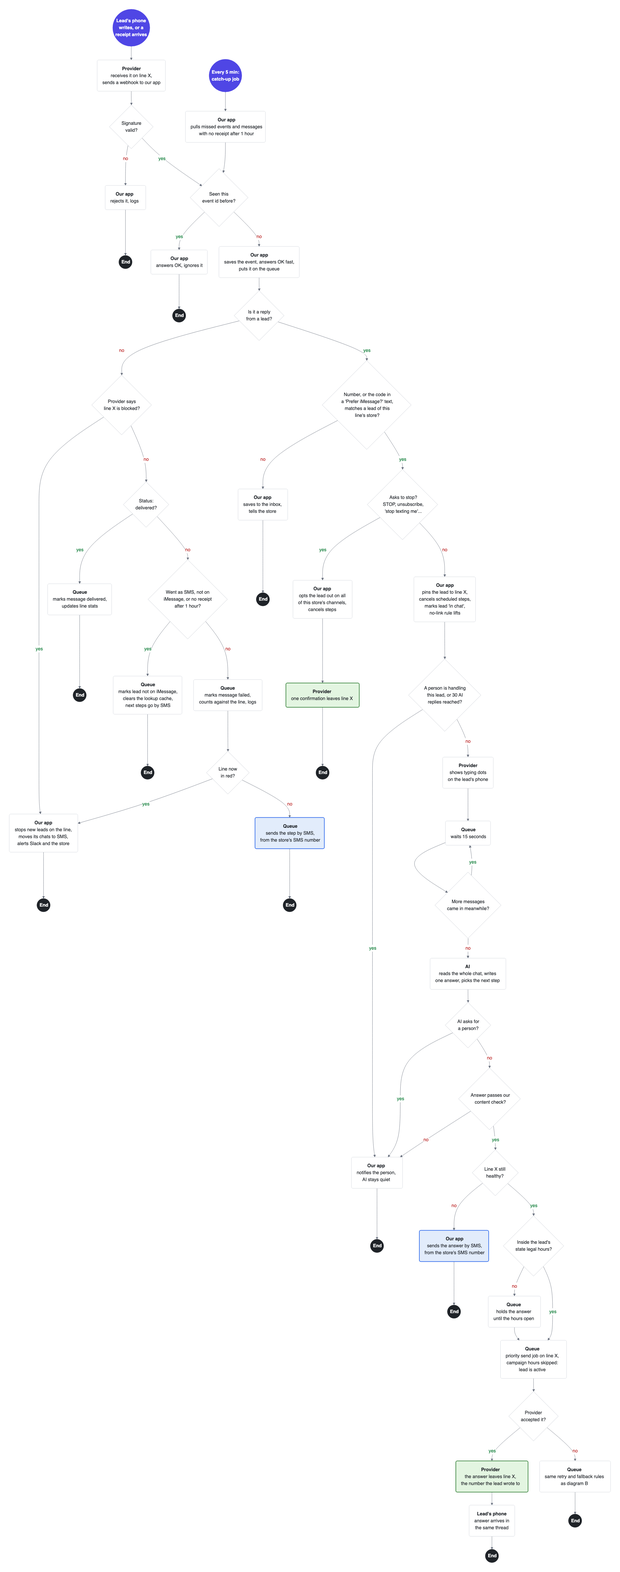
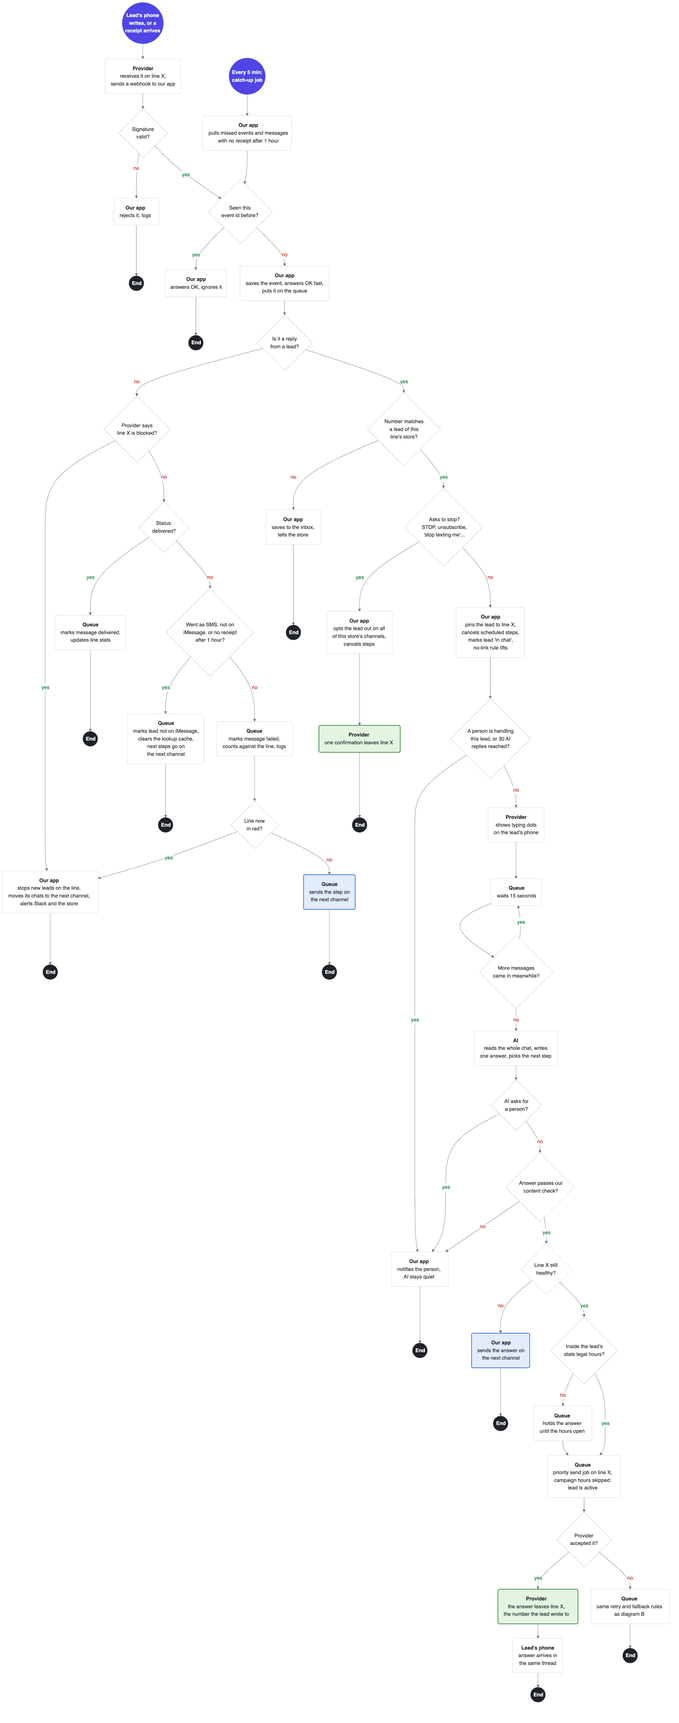
iMessage as a fifth channel: we write first, fall back to the next channel
- One pilot where we send first; "Prefer iMessage?" becomes plan B
- Fallback goes to the campaign's next channel, not always SMS
- The pilot compares with the campaign without iMessage
- One number per lead: an iPhone lead gets every text step from one line

diff --git a/appendix.md b/appendix.md
@@ -16,7 +16,7 @@ Back to the plan: [README.md](README.md) · [Diagrams](diagrams.md)
 | Conflict with us | None found | Sells its own iMessage cart recovery to Shopify brands | None found | None found |
 
 **Pick: Blooio**, from step 0 through the pilot, so the line warmed in step 0 carries into the pilot.
-- **Why:** public prices ($195 a line at 6+, no setup fees), live in days, and hard limits with an error code for each rule, so the provider catches our own mistakes. It falls back to SMS only through our own Twilio, so keeping our SMS path is the default.
+- **Why:** public prices ($195 a line at 6+, no setup fees), live in days, and hard limits with an error code for each rule, so the provider catches our own mistakes. It falls back to SMS only through our own Twilio, so we leave that off and fall back through our own channels.
 - **Conditions:** a data agreement (DPA) before any shopper data flows, and its SOC 2 finished before we grow beyond the pilot (its trust page says "in progress"). Otherwise we move to Linq; our provider interface keeps that to about a week.
 - **Plan B: Linq.** It claims SOC 2 Type II, has a 99.95% uptime contract and automatic failover, but no public price.
 - **Not Sendblue:** the July 2026 breach and its competing cart product. **Not Photon:** its pricing page sells cold outreach while its own guide says not to do it.
@@ -39,22 +39,22 @@ Back to the plan: [README.md](README.md) · [Diagrams](diagrams.md)
 - the SOC 2 report itself, the auditor's name and the breach history.
 
 **Provider details that shape the build.** From Blooio's docs (our pick):
-- Before a written reply, a chat allows 3 plain-text messages, and links and media are blocked (`conversation_content_restricted`). Our no-link rule and "two unanswered → SMS" stay inside that.
+- Before a written reply, a chat allows 3 plain-text messages, and links and media are blocked (`conversation_content_restricted`). Our no-link rule and "two unanswered → next channel" stay inside that.
 - The `one_way` rule: over 10 new chats a day (3-day average) with under 40% written replies slows the line, then pauses new chats. Sizing has to allow for it (section F).
 - Its 429 errors such as `conversation_awaiting_reply` aren't temporary, and retrying won't help. Our retry logic reads the error key, not just the status code.
 - The `safety.state_changed` webhook and the health endpoint (polled every 5 minutes) feed our health job.
 - One banned number slows every number on the account for 72 hours (`sibling_ban`), so each store gets its own sub-account.
-- SMS fallback runs only through our own Twilio account. We leave it off and use our SMS path.
+- SMS fallback runs only through our own Twilio account. We leave it off and fall back to the campaign's next channel.
 
 From Linq's docs (plan B):
 - A `phone_number.status_updated` webhook reports health changes (healthy, at risk, critical), so the health job uses Linq's own signal.
 - When Linq picks the line, the recipients of a flagged line move to a fresh one (`failover_flagged`). A `continuation_message` can explain the new number.
-- A flagged Linq number also stops sending SMS, by Linq's help page. One more reason to fall back through our own SMS path.
+- A flagged Linq number also stops sending SMS, by Linq's help page. One more reason to fall back through our own channels.
 - Rate limits return 429 with `Retry-After`. The iMessage check allows one call per 10 seconds.
 
 From Sendblue's docs, if we pick it:
 - A `line_blocked` webhook exists, so the health job uses the provider's own signal.
-- The lookup can answer "indeterminate". We treat that as "not on iMessage" and use SMS.
+- The lookup can answer "indeterminate". We treat that as "not on iMessage" and use the next channel.
 - Webhooks are retried only 3 times, with a 45 s timeout. If our endpoint is down for a few minutes, replies are lost. So a catch-up job pulls recent messages per line every 5 minutes (diagram C).
 - Each message can have its own status URL. We put our message id in it, so a status that arrives before our database write still matches.
 - Typing dots are one API call and add no outbound message, so they are in v1.
@@ -65,15 +65,15 @@ The plan lists the main ones. The full list:
 
 | Risk | What breaks | What we do |
 |---|---|---|
-| **No link before a reply** | iOS disables links from unknown senders until the person replies. Blooio also blocks links and media before a written reply, and allows 3 plain-text messages until then. Our cart message leads with the link. | The first message names the brand, says it's an assistant and asks one short question. For example: "Hi Sam, this is the Glow Shop assistant. You left the blue scarf in your cart. Want me to save it for you?" The link comes after the reply. Two unanswered messages → the next step goes by SMS with the link. |
+| **No link before a reply** | iOS disables links from unknown senders until the person replies. Blooio also blocks links and media before a written reply, and allows 3 plain-text messages until then. Our cart message leads with the link. | The first message names the brand, says it's an assistant and asks one short question. For example: "Hi Sam, this is the Glow Shop assistant. You left the blue scarf in your cart. Want me to save it for you?" The link comes after the reply. Two unanswered messages → the next step goes on the next channel, with the link. |
 | **Apple blocks a line** | Junk reports, bursts and night sends. Every open chat on the line dies too. | New chats per line ramp 10 → 25 → 50 a day over 3 weeks, max 15 an hour, spread out. Consent only, no night sends, a contact card after the first reply. One brand per line, never shared. |
-| **Reply rate** | Too few replies: a line that only sends looks like a bot to Apple. Many replies: more AI calls, longer chats, more handoffs. | Track replies against sends per line. When they drop, the line stops starting new chats. Phase 1 starts every line with two-way chats. A cap of 30 AI replies per chat, then a person. |
+| **Reply rate** | Too few replies: a line that only sends looks like a bot to Apple. Many replies: more AI calls, longer chats, more handoffs. | Track replies against sends per line. When they drop, the line stops starting new chats. The first message asks a question, to invite a reply. Step 0 shows the real rate before we build. A cap of 30 AI replies per chat, then a person. |
 | **One customer's content** | Adult, drug or scam content can get our *whole* provider account closed, with no refund. | Admins check what the brand sells before turning it on (list below). Every AI message passes a content check. Watch opt-outs and "who is this" replies per customer. Sub-account and kill switch per customer. |
-| **Apple ends the channel** | Apple blocks the providers' method for everyone, overnight. | Leads fall back to SMS automatically. We lose the blue bubble, not the leads. See section I. |
-| **Provider down** | Every send fails and retries 3 times, so carts wait. Replies sent while webhooks are down are lost. | If most sends fail for 5 minutes, a circuit breaker turns iMessage off for everyone and steps go by SMS. It turns back on after a test send works. The catch-up job collects missed replies. |
-| **Not enough lines** | Carts go cold within an hour, and 50 a day fills fast. | No free slot within 60 min → that step goes by SMS. Size lines with the formula in section F. |
-| **Lead not on iMessage** | Android (about 4 in 10 US phones), iMessage turned off, numbers outside the US, numbers that moved to Android but are still registered with Apple. | Look the number up before the first send and cache it for 30 days. A downgrade, or no receipt within an hour → clear the cache, next steps by SMS. v1 covers US/CA only. See section C. |
-| **Cost** | Lines are a fixed monthly cost. Long chats also cost more in AI calls. | The pilot splits iPhone leads 50/50 against SMS. See section F. |
+| **Apple ends the channel** | Apple blocks the providers' method for everyone, overnight. | Leads fall back to the next channel automatically. We lose the blue bubble, not the leads. See section I. |
+| **Provider down** | Every send fails and retries 3 times, so carts wait. Replies sent while webhooks are down are lost. | If most sends fail for 5 minutes, a circuit breaker turns iMessage off for everyone and steps go on the next channel. It turns back on after a test send works. The catch-up job collects missed replies. |
+| **Not enough lines** | Carts go cold within an hour, and 50 a day fills fast. | No free slot within 60 min → that step goes on the next channel. Size lines with the formula in section F. |
+| **Lead not on iMessage** | Android (about 4 in 10 US phones), iMessage turned off, numbers outside the US, numbers that moved to Android but are still registered with Apple. | Look the number up before the first send and cache it for 30 days. A downgrade, or no receipt within an hour → clear the cache, next steps on the next channel. v1 covers US/CA only. See section C. |
+| **Cost** | Lines are a fixed monthly cost. Long chats also cost more in AI calls. | The pilot splits iPhone leads 50/50, with and without iMessage. See section F. |
 | **Opt-out** | iMessage has no carrier STOP. | We detect STOP, "unsubscribe" and similar ourselves, opt the lead out on all channels and send one confirmation. |
 | **Webhooks** | Duplicates, late or out-of-order events, missed retries. | Check the signature, skip events we've seen, save then queue. A catch-up job every 5 min pulls missed events and messages with no receipt after an hour. |
 | **State law** | Quiet hours and frequency limits, AI disclosure. | See section E. |
@@ -84,19 +84,18 @@ The plan lists the main ones. The full list:
 **Line health, starting values** (tuned in the pilot):
 - Checked every 15 min: the provider's `line_blocked` event, blocked or declined errors, delivery rate over the last 100 sends, failures in a row, replies against sends, opt-out rate, days with no sends.
 - **Yellow:** delivery under 90%, or opt-outs above 2%. The daily new-chat cap halves, and Slack gets an alert.
-- **Red:** the provider says blocked, 5 failures in a row, or delivery under 70%. No new leads on the line, its chats move to SMS, and Slack and the customer are told. The ops on-call replaces the line within one working day.
-- A replacement line starts its warm-up again, so the store has less iMessage capacity for 2–3 weeks. More of its leads go by SMS meanwhile.
+- **Red:** the provider says blocked, 5 failures in a row, or delivery under 70%. No new leads on the line, its chats move to the next channel, and Slack and the customer are told. The ops on-call replaces the line within one working day.
+- A replacement line starts its warm-up again, so the store has less iMessage capacity for 2–3 weeks. More of its leads go on the next channel meanwhile.
 - A weekly Slack summary per line catches slow decline.
 
 ## C. Android
 
 About 4 in 10 US phones in use are Android (StatCounter, mid-2026: iOS 58–61%, Android 39–42%). The share differs a lot by store: about 87–88% of US teens own an iPhone (Piper Sandler, 2025).
 
-- **iMessage can only reach the iPhone share.** At best it lifts about 6 in 10 US leads. The rest stay on SMS, and we sell it that way.
+- **iMessage can only reach the iPhone share.** At best it lifts about 6 in 10 US leads. The rest stay on the campaign's other channels, and we sell it that way.
 - **Pilot stores with iPhone-heavy shoppers.** We ask each candidate store for its iPhone share of mobile visits; any analytics tool shows it. A line priced per month pays off poorly for a store at 40%.
 - **Compare iPhone with iPhone.** See section G.
-- **Android users never see "prefer iMessage?".** If they tapped it, they would start an SMS chat with the iMessage line, outside our SMS rules. The offer goes only to numbers the lookup confirmed.
-- **Numbers that moved to Android.** Apple can keep a number registered for iMessage after its owner leaves iPhone, until they deregister it. Messages to it vanish, or land on an old iPad or Mac. The 30-day cache makes this worse. No receipt within an hour clears the cache and moves the lead to SMS. The "two unanswered, then SMS" rule catches the rest.
+- **Numbers that moved to Android.** Apple can keep a number registered for iMessage after its owner leaves iPhone, until they deregister it. Messages to it vanish, or land on an old iPad or Mac. The 30-day cache makes this worse. No receipt within an hour clears the cache and moves the lead to the next channel. The "two unanswered, then next channel" rule catches the rest.
 - **SMS to Android is changing too.** Google Messages warns about links from unknown senders and hides suspected scams. It was piloted in 2024 in a few countries, with a wider rollout planned. Our SMS results on Android may get weaker either way.
 - **RCS is the answer for Android.** Business RCS now runs on all major US carriers, through Google Messages on Android. It shows a verified brand name and logo, and allows links and buttons. Carrier approval takes 2–6 weeks. It is the natural next channel for the leads iMessage can't reach. Not confirmed: which US carriers show business RCS on iPhone.
 - **Other markets:** Lithuania is about 63–70% Android, and Australia about 60–64% iPhone. iMessage fits the US, Canada and Australia. In most of the EU, WhatsApp, already a channel, matters more.
@@ -105,8 +104,8 @@ About 4 in 10 US phones in use are Android (StatCounter, mid-2026: iOS 58–61%,
 
 - **A reply or a purchase while a step waits in the queue.** The step is checked again right before it is sent, and dropped if it's no longer wanted (diagram B).
 - **The lead writes to the other number.** After a fallback, a lead may still write to the old iMessage line. We answer where the lead last wrote, with the whole chat history.
-- **A line is blocked mid-chat.** Its chats move to the store's SMS number. The first SMS says it's the same store and why the number changed.
-- **The lead's iMessage uses an email address.** Some people start chats from their Apple ID email, not their number. The "prefer iMessage?" link pre-fills a short code, so we can still match the lead (diagram C).
+- **A line is blocked mid-chat.** Its chats move to the next channel. If that's SMS, the first SMS says it's the same store and why the number changed.
+- **The lead replies from an Apple ID email.** Rare, because we start the chat on their number. If the reply can't be matched, it goes to the inbox and the store links it (diagram C).
 - **An opted-out lead writes again.** A person sees it. No automatic messages until the lead opts back in.
 - **"Is this a bot?"** The AI says it's the store's assistant and offers a person.
 - **Thumbs-up and other reactions.** They count as engagement in line stats, but get no answer.
@@ -132,7 +131,7 @@ About 4 in 10 US phones in use are Android (StatCounter, mid-2026: iOS 58–61%,
 - **Lines needed per store** = eligible leads a day ÷ 40. The cap is 50, and the rest is headroom for spreading sends out and for retries.
 - **With Blooio's reply rule:** if a line's new chats get under 40% written replies, Blooio slows it to about 10 new chats a day. Then the formula is ÷ 10, and a line costs about 4× more per lead. The pilot shows which case applies; step 0 gives a first hint.
 - **Example:** a store with 300 carts a day with consent and a US/CA number. If 55–70% are on iMessage, that is 165–210 leads a day, so **5–6 lines**. In the pilot only half of them get iMessage, so about 3 lines.
-- During warm-up a line takes only 10, then 25, new chats a day. Phase 1 covers part of this period.
+- During warm-up a line takes only 10, then 25, new chats a day, so the pilot's first weeks run at lower volume. The step 0 line starts the pilot already warm.
 - **Cost per line:** about $195–$290 a month (Blooio list price, Linq reported at about $250, Sendblue on request). At about 1,200 new chats a line a month, that is $0.15–$0.25 a lead, against about $0.01 for SMS.
 - **Break-even:** $200 ÷ (1,200 leads × $80 average order) ≈ 0.2 percentage points, or **2 more carts recovered per 1,000 leads**. The $80 is an assumption. That counts all the store's recovered revenue. If Outcraft pays for the line and keeps only its share (say 15%), it needs about **14–17 more carts per 1,000 leads** ($200–$250 a line), about 1.5 points. If the store pays for the line, it needs about 2.5 per 1,000 counting revenue, or about 5 counting profit at a 50% margin. The go bar of 2 points (20 per 1,000) covers every case.
 - **Pilot cost:** 6–10 lines for about 2 months, roughly $2,500–$6,000. We pay it, so stores can join easily.
@@ -140,7 +139,7 @@ About 4 in 10 US phones in use are Android (StatCounter, mid-2026: iOS 58–61%,
 
 ## G. Pilot and go/no-go
 
-Two-sided test, 5% significance, 80% power. The baselines (6% SMS reply rate, 10% recovery) are assumptions until we see Outcraft's own data.
+Two-sided test, 5% significance, 80% power. The baselines without iMessage (6% reply rate, 10% recovery) are assumptions until we see Outcraft's own data.
 
 | What we want to prove | Leads needed (both groups) | Days at 100 eligible a day | Days at 300 a day |
 |---|---|---|---|
@@ -150,13 +149,12 @@ Two-sided test, 5% significance, 80% power. The baselines (6% SMS reply rate, 10
 | Recovery 10% → 12% | 7,682 | 77 | 26 |
 | Recovery 10% → 11% | 29,502 | 296 | 99 |
 
-- **Go:** reply rate at least 2× SMS, and recovery at least 2 points above SMS.
-- **Guardrails:** opt-outs no higher than SMS, and under 1 blocked line per 10 line-months.
+- **What we compare:** the half with iMessage against the half without it, which gets the campaign as today, usually SMS. So the test answers the product question: does adding iMessage recover more carts?
+- **Go:** reply rate at least 2×, and recovery at least 2 points higher.
+- **Guardrails:** opt-outs no higher than without iMessage, and under 1 blocked line per 10 line-months.
 - **Revenue after line costs** is tracked, but proving a 1-point lift needs about 30,000 leads, so it shows direction only.
-- **Both halves are iPhone leads.** Leads are split only after the lookup confirms iMessage. iPhone and Android shoppers differ in age and income, so comparing iMessage with all SMS leads would flatter iMessage.
-- **The SMS half gets no "prefer iMessage?" offer** in phase 2, or the comparison stops being clean.
-- **If lines are the bottleneck,** the SMS group can be up to 3× the iMessage group. For 10% → 12%, that cuts the iMessage leads needed from about 3,840 to about 2,560.
-- **Phase 1 leads are not in the test.** They chose iMessage themselves, so they would flatter it too. Phase 1 measures how many tap the offer and how those chats go.
+- **Both halves are iPhone leads.** Leads are split only after the lookup confirms iMessage. iPhone and Android shoppers differ in age and income, so comparing with all leads would flatter iMessage.
+- **If lines are the bottleneck,** the group without iMessage can be up to 3× the iMessage group. For 10% → 12%, that cuts the iMessage leads needed from about 3,840 to about 2,560.
 - Warm-up limits volume early. If the pilot stores have fewer than about 300 eligible leads a day, we run longer or add a store.
 
 ## H. Rollout
@@ -164,46 +162,37 @@ Two-sided test, 5% significance, 80% power. The baselines (6% SMS reply rate, 10
 | Weeks | Phase | The question it answers |
 |---|---|---|
 | 1–3 | **Step 0:** is it worth it? | Are there enough eligible shoppers, and do they reply? |
-| 4–5 | **Build:** replies (diagram C) | — |
-| 6–7 | **Phase 1:** shoppers write first, while we build sending (diagram B) | Does the system work, and how many shoppers want iMessage? |
-| 8–11 | **Phase 2:** we write first, tested against SMS | Does iMessage recover more carts? |
+| 4–7 | **Build:** replies (diagram C), then sending (diagram B) | — |
+| 8–11 | **Pilot:** we write first, half of the iPhone shoppers get iMessage | Does adding iMessage recover more carts? |
 | 12 | **Decision** | Go or no-go |
 
 **Step 0: is it worth it? (weeks 1–3, about $300, no build)**
 - **Count the eligible shoppers** (a few days): carts with consent and a US/CA number, times the iPhone share from a lookup on about 500 numbers.
-- **Manual test:** one store, one Blooio line, which goes on into the pilot. Half the iPhone carts get iMessage, half get SMS. A person answers, with AI drafts. Dashboard sends skip our consent, Do Not Call and hours checks, so someone checks those by hand.
+- **Manual test:** one store, one Blooio line, which goes on into the pilot. Half the iPhone carts get iMessage, half get the campaign as today. A person answers, with AI drafts. Dashboard sends skip our consent, Do Not Call and hours checks, so someone checks those by hand.
 - **At the same time:** provider contract, data agreement (DPA), legal check on state rules.
-- **Go on if:** a store has at least ~30 eligible shoppers a day, replies are at least 2× SMS, and the line isn't flagged. **Otherwise stop**, or look at RCS.
+- **Go on if:** a store has at least ~30 eligible shoppers a day, replies are at least 2× the other half, and the line isn't flagged.
+- **If cold messages get the line flagged:** plan B, leads write to us first (below).
+- **Otherwise stop**, or look at RCS.
 
-**Build: replies (weeks 4–5)**
-- Provider interface, webhooks with the catch-up job, STOP handling, chat rules (typing dots, 15 s wait, a cap of 30), content check.
-- The "Prefer iMessage?" link in our own SMS and email steps.
+**Build (weeks 4–7)**
+- **Replies first (diagram C), weeks 4–5:** provider interface, webhooks with the catch-up job, STOP handling, chat rules (typing dots, 15 s wait, a cap of 30), content check.
+- **Then sending (diagram B), weeks 6–7:** lookup, per-line limits, no-link rules, health alerts, next-channel fallback, the random split.
 
-**Phase 1: shoppers write first (weeks 6–7)**
+**Pilot: we write first (weeks 8–11)**
 - 2–3 US stores, switched on by our admins. We pay for the lines.
-- SMS and email steps offer "Prefer iMessage? Tap here", only to numbers confirmed on iMessage. The link opens a chat with the store's line and pre-fills a short code. The shopper writes first, so:
-  - links work, and there is no junk banner;
-  - none of the pre-reply rules apply;
-  - Apple stops filtering a sender once the person has replied 3 times;
-  - real two-way chats warm the lines up.
-- **We measure:** how many tap, how chats go, the AI cost per chat, lookup accuracy, line health.
-- **Meanwhile we build sending (diagram B):** lookup, per-line limits, no-link rules, health alerts, SMS fallback.
-- **What phase 1 can't show:** whether iMessage recovers more carts, or how people react when we write first.
-
-**Phase 2: we write first (weeks 8–11)**
-- Cart messages by iMessage on the warmed lines, so about 50 new chats per line a day from the start.
-- A random split between iMessage and SMS, among iPhone shoppers only. If lines are the bottleneck, the SMS group can be up to 3× bigger.
-- **We measure:** replies, recovered carts, opt-outs, blocked lines.
+- Cart messages by iMessage. The step 0 line is already warm. New lines ramp 10 → 25 → 50 a day.
+- A random split among iPhone shoppers only: half get iMessage, half the campaign without it. If lines are the bottleneck, the half without can be up to 3× bigger.
+- **We measure:** replies, recovered carts, opt-outs, blocked lines, AI cost per chat, lookup accuracy.
 
 **Decision (week 12)**
-- **Go if:** replies at least 2× SMS, recovery at least 2 points above SMS, opt-outs no higher than SMS, and under 1 blocked line per 10 line-months (section G).
+- **Go if**, against the half without iMessage: replies at least 2×, recovery at least 2 points higher, opt-outs no higher, and under 1 blocked line per 10 line-months (section G).
 - **Go →** a paid add-on per line, more stores, later self-serve.
-- **No-go →** keep phase 1 only (iMessage for shoppers who ask for it), or stop and look at RCS.
+- **No-go →** plan B (leads write first), or stop and look at RCS.
 - **Before growing beyond the pilot:** Blooio's SOC 2 must be finished, or we move to Linq.
 
 **Other notes:**
-- **The step 0 line is warm by week 4**, so the pilot can use it from day one.
-- **If the team wants less risk:** stop after phase 1. v1 is then replies only, and outbound comes later.
+- **The step 0 line is warm**, so the pilot uses it from day one.
+- **Plan B: leads write first.** If step 0 shows that cold messages get lines flagged, our SMS and email steps offer "Prefer iMessage? Tap here" to numbers confirmed on iMessage. The link opens a chat with the store's line and pre-fills a short code, so we can match the lead. Links work, pre-reply rules don't apply, and two-way chats warm the lines. It isn't in v1: it changes the SMS and email steps, needs the short-code matching, and depends on how many shoppers tap.
 - **If Outcraft already runs iMessage:** skip step 0 and use that data.
 - **Effort:** about 4 weeks of build for one engineer, 3–5 depending on how channel-neutral our code is. Lines for the pilot: $2,500–$6,000.
 
@@ -212,13 +201,13 @@ Two-sided test, 5% significance, 80% power. The baselines (6% SMS reply rate, 10
 - Apple's iCloud terms say the service is for personal use, and forbid automated access and promotional messages. Every iMessage provider runs real Apple IDs against these terms. Outcraft isn't a party to them, but the channel exists only while Apple tolerates it.
 - Precedents: Apple cut off Beeper Mini in December 2023 (a consumer app using fake credentials, a different case), and Lindy's own account was banned within half a day.
 - I found no sign of Apple shutting down managed providers in 2025–26, and Sendblue has run for 5+ years.
-- **So: low chance, high impact.** SMS fallback runs everywhere, a global kill switch exists, and we never sell iMessage as guaranteed.
+- **So: low chance, high impact.** Fallback to the next channel runs everywhere, a global kill switch exists, and we never sell iMessage as guaranteed.
 
 ## J. What waits, and ideas for later
 
 **Waits in v1, and why:**
 - **Self-serve and billing:** needs pilot numbers first.
-- **Moving a chat to a new line:** SMS covers it in v1.
+- **Moving a chat to a new line:** the next channel covers it in v1.
 - **Sending pictures:** not needed to win a reply.
 - **Group chats:** carts are one-to-one.
 - **A second provider:** our interface keeps the switch to about a week.

diff --git a/diagrams.md b/diagrams.md
@@ -5,10 +5,11 @@ Back to the plan: [README.md](README.md)
 **Why B and C:** messages leave a number and replies come back only in these two, so most failures happen here. A is manual in v1, and D is covered by the plan's section 3.
 
 **How to read:**
-- 🟣 start (what triggers it) · ⚫ end, one per branch · ◇ a question, with yes and no arrows · ▢ an action, **bold** = who does it · 🟩 an iMessage leaves line X · 🟦 an SMS leaves the store's SMS number
+- 🟣 start (what triggers it) · ⚫ end, one per branch · ◇ a question, with yes and no arrows · ▢ an action, **bold** = who does it · 🟩 an iMessage leaves line X · 🟦 the step moves to the next channel
 - **Who does it:** our app, the queue, the AI, the provider, or the lead's phone.
 - **Line X** is the store's iMessage line this lead is pinned to. Every iMessage to the lead comes from it.
-- **Blue boxes** hand the step to our existing SMS flow, which sends from the store's SMS number.
+- **Which steps:** iMessage is a fifth channel. When it's on, a lead on iMessage gets every text step, iMessage or SMS, from line X. One number per lead.
+- **Next channel** (blue boxes): SMS from the store's SMS number if the campaign has SMS on, else the campaign's next channel, such as email or a call. That channel's own flow and checks take over.
 - **Logging:** every refusal, retry, fallback and drop is logged with its reason and the provider's error key.
 
 ---
@@ -18,37 +19,37 @@ Back to the plan: [README.md](README.md)
 ```mermaid
 %%{init: {"theme": "base", "themeVariables": {"fontFamily": "Helvetica, Arial, sans-serif", "primaryColor": "#ffffff", "primaryBorderColor": "#d0d4db", "primaryTextColor": "#1f2328", "lineColor": "#6b7280", "edgeLabelBackground": "#ffffff"}, "themeCSS": "foreignObject { overflow: visible; } .nodeLabel { white-space: nowrap; }", "flowchart": {"curve": "basis", "nodeSpacing": 40, "rankSpacing": 45, "padding": 18}}}%%
 flowchart TD
-    S(("<b>Campaign<br/>step is due</b>")) --> A1("<b>Scheduler → Queue</b><br/>picks up the step job")
+    S(("<b>Text step<br/>is due</b>")) --> A1("<b>Scheduler → Queue</b><br/>picks up the step job,<br/>iMessage or SMS")
     A1 --> Q0{"Already sent?<br/>same message id"}
     Q0 -- yes --> E0(("<b>End</b>"))
-    Q0 -- no --> Q1{"Outbound iMessage on<br/>globally, for the store and<br/>the campaign, with a live line?<br/>off in phase 1"}
+    Q0 -- no --> Q1{"iMessage on globally,<br/>for the store and the campaign,<br/>with a live line?"}
     Q1 -- no --> F1("<b>Our app</b><br/>hands the step to the campaign's<br/>next channel, no iMessage sent") --> E1(("<b>End</b>"))
     Q1 -- yes --> Q2{"US/CA number, consent,<br/>passes Do Not Call, not opted out,<br/>not texting us from another number?<br/>pilot: not FL, MD or OK"}
     Q2 -- no --> F2("<b>Our app</b><br/>next channel, no iMessage sent,<br/>logs why") --> E2(("<b>End</b>"))
     Q2 -- yes --> Q3{"iMessage result cached<br/>in the last 30 days?"}
     Q3 -- no --> L1("<b>Provider</b><br/>lookup: is this number on iMessage?") --> L2("<b>Our app</b><br/>saves the result") --> Q4
     Q3 -- yes --> Q4{"Lead is on<br/>iMessage?"}
-    Q4 -- no --> F3("<b>Our app</b><br/>sends this step by SMS,<br/>from the store's SMS number"):::sms --> E3(("<b>End</b>"))
+    Q4 -- no --> F3("<b>Our app</b><br/>sends this step on<br/>the next channel"):::sms --> E3(("<b>End</b>"))
     Q4 -- yes --> QG{"Pilot: in the iMessage group?<br/>picked at random once<br/>per lead, then saved"}
-    QG -- no --> F11("<b>Our app</b><br/>SMS group: sends this step by SMS,<br/>from the store's SMS number, counts it in the test"):::sms --> E15(("<b>End</b>"))
+    QG -- no --> F11("<b>Our app</b><br/>group without iMessage: the step<br/>runs as if iMessage were off,<br/>counted in the test"):::sms --> E15(("<b>End</b>"))
     QG -- yes --> QL{"Inside the lead's<br/>state legal hours?"}
     QL -- no --> R1("<b>Queue</b><br/>moves the step to the next window") --> E4(("<b>End</b>"))
     QL -- yes --> Q5{"Inside campaign hours, or lead<br/>wrote in the last 30 min?"}
     Q5 -- no --> R1
     Q5 -- yes --> Q6{"Lead already has<br/>an iMessage line?"}
     Q6 -- yes --> Q7{"Is that line<br/>healthy?"}
-    Q7 -- no --> F4("<b>Our app</b><br/>sends by SMS, from the store's SMS number,<br/>logs why"):::sms --> E5(("<b>End</b>"))
+    Q7 -- no --> F4("<b>Our app</b><br/>sends on the next channel,<br/>logs why"):::sms --> E5(("<b>End</b>"))
     Q7 -- yes --> X1("<b>Our app</b><br/>keeps the same line = line X") --> Q10
     Q6 -- no --> Q8{"Any of the store's lines with a<br/>free new-contact slot? daily cap<br/>10 → 25 → 50 in warm-up,<br/>15 an hour"}
     Q8 -- yes --> X2("<b>Our app</b><br/>picks the line with most free slots<br/>= line X") --> Q10
     Q8 -- no --> Q9{"Lead waited over<br/>60 minutes?"}
-    Q9 -- yes --> F5("<b>Our app</b><br/>sends this step by SMS while<br/>the cart is fresh, from the store's SMS number"):::sms --> E6(("<b>End</b>"))
+    Q9 -- yes --> F5("<b>Our app</b><br/>sends this step on the next<br/>channel while the cart is fresh"):::sms --> E6(("<b>End</b>"))
     Q9 -- no --> R2("<b>Queue</b><br/>tries again in 10 min") --> E7(("<b>End</b>"))
 
     Q10{"Has the lead ever<br/>written to line X?"}
     Q10 -- yes --> AI2("<b>AI</b><br/>writes the full message,<br/>checkout link allowed") --> QC
     Q10 -- no --> Q11{"Already 2 iMessages<br/>with no reply?"}
-    Q11 -- yes --> F6("<b>Our app</b><br/>moves the lead to SMS: sends with<br/>the link, from the store's SMS number"):::sms --> E8(("<b>End</b>"))
+    Q11 -- yes --> F6("<b>Our app</b><br/>moves the lead to the next<br/>channel, sends with the link"):::sms --> E8(("<b>End</b>"))
     Q11 -- no --> AI1("<b>AI</b><br/>writes a short question: names<br/>the brand, says it's an assistant,<br/>no link, max 300 characters") --> QC
 
     QC{"Passes our<br/>content check?"}
@@ -70,12 +71,12 @@ flowchart TD
     Q13 -- no --> Q14{"Temporary error?<br/>rate limit, 5xx, timeout"}
     Q14 -- yes --> Q15{"Tried 3<br/>times already?"}
     Q15 -- no --> R4("<b>Queue</b><br/>retries with a growing delay, logs") --> Q12
-    Q15 -- yes --> F7("<b>Our app</b><br/>sends by SMS, from the store's SMS number,<br/>logs, alerts"):::sms --> E10(("<b>End</b>"))
+    Q15 -- yes --> F7("<b>Our app</b><br/>sends on the next channel,<br/>logs, alerts"):::sms --> E10(("<b>End</b>"))
     Q14 -- no --> Q16{"Declined because<br/>of the text?"}
     Q16 -- yes --> Q17{"Already<br/>rewritten once?"}
     Q17 -- no --> AI3("<b>AI</b><br/>rewrites without the blocked part") --> Q12
-    Q17 -- yes --> F8("<b>Our app</b><br/>sends by SMS, from the store's SMS number,<br/>logs why"):::sms --> E11(("<b>End</b>"))
-    Q16 -- no --> F9("<b>Our app</b><br/>line limit hit or line blocked:<br/>marks the line, logs,<br/>health check runs,<br/>sends this step by SMS,<br/>from the store's SMS number"):::sms --> E12(("<b>End</b>"))
+    Q17 -- yes --> F8("<b>Our app</b><br/>sends on the next channel,<br/>logs why"):::sms --> E11(("<b>End</b>"))
+    Q16 -- no --> F9("<b>Our app</b><br/>line limit hit or line blocked:<br/>marks the line, logs,<br/>health check runs,<br/>sends this step on<br/>the next channel"):::sms --> E12(("<b>End</b>"))
 
     classDef start fill:#4f46e5,stroke:#4f46e5,color:#ffffff
     classDef finish fill:#1f2328,stroke:#1f2328,color:#ffffff
@@ -91,7 +92,7 @@ flowchart TD
     linkStyle 3,4,7,10,14,17,20,23,26,30,33,36,40,43,45,46,51,54,62,64,68,70,74 color:#b91c1c,stroke:#6b7280
 ```
 
-🟣 start (what triggers it) · ⚫ end, one per branch · ◇ a question, with yes and no arrows · ▢ an action, **bold** = who does it · 🟩 an iMessage leaves line X · 🟦 an SMS leaves the store's SMS number
+🟣 start (what triggers it) · ⚫ end, one per branch · ◇ a question, with yes and no arrows · ▢ an action, **bold** = who does it · 🟩 an iMessage leaves line X · 🟦 the step moves to the next channel
 
 If the diagram doesn't render: [diagram-b.png](diagram-b.png)
 
@@ -116,12 +117,12 @@ flowchart TD
     Q4a -- no --> Q4{"Status:<br/>delivered?"}
     Q4 -- yes --> D1("<b>Queue</b><br/>marks message delivered,<br/>updates line stats") --> E3(("<b>End</b>"))
     Q4 -- no --> Q5{"Went as SMS, not on<br/>iMessage, or no receipt<br/>after 1 hour?"}
-    Q5 -- yes --> D2("<b>Queue</b><br/>marks lead not on iMessage,<br/>clears the lookup cache,<br/>next steps go by SMS") --> E4(("<b>End</b>"))
+    Q5 -- yes --> D2("<b>Queue</b><br/>marks lead not on iMessage,<br/>clears the lookup cache,<br/>next steps go on<br/>the next channel") --> E4(("<b>End</b>"))
     Q5 -- no --> D3("<b>Queue</b><br/>marks message failed,<br/>counts against the line, logs") --> Q6{"Line now<br/>in red?"}
-    Q6 -- yes --> D4("<b>Our app</b><br/>stops new leads on the line,<br/>moves its chats to SMS,<br/>alerts Slack and the store") --> E5(("<b>End</b>"))
-    Q6 -- no --> D5("<b>Queue</b><br/>sends the step by SMS,<br/>from the store's SMS number"):::sms --> E6(("<b>End</b>"))
+    Q6 -- yes --> D4("<b>Our app</b><br/>stops new leads on the line,<br/>moves its chats to the next channel,<br/>alerts Slack and the store") --> E5(("<b>End</b>"))
+    Q6 -- no --> D5("<b>Queue</b><br/>sends the step on<br/>the next channel"):::sms --> E6(("<b>End</b>"))
 
-    Q3 -- yes --> Q7{"Number, or the code in<br/>a 'Prefer iMessage?' text,<br/>matches a lead of this<br/>line's store?"}
+    Q3 -- yes --> Q7{"Number matches<br/>a lead of this<br/>line's store?"}
     Q7 -- no --> R1("<b>Our app</b><br/>saves to the inbox,<br/>tells the store") --> E7(("<b>End</b>"))
     Q7 -- yes --> Q8{"Asks to stop?<br/>STOP, unsubscribe,<br/>'stop texting me'..."}
     Q8 -- yes --> R2("<b>Our app</b><br/>opts the lead out on all<br/>of this store's channels,<br/>cancels steps") --> OUT2("<b>Provider</b><br/>one confirmation leaves line X"):::out
@@ -137,7 +138,7 @@ flowchart TD
     Q11 -- no --> QC{"Answer passes our<br/>content check?"}
     QC -- no --> R4
     QC -- yes --> Q12{"Line X still<br/>healthy?"}
-    Q12 -- no --> R6("<b>Our app</b><br/>sends the answer by SMS,<br/>from the store's SMS number"):::sms --> E10(("<b>End</b>"))
+    Q12 -- no --> R6("<b>Our app</b><br/>sends the answer on<br/>the next channel"):::sms --> E10(("<b>End</b>"))
     Q12 -- yes --> QL{"Inside the lead's<br/>state legal hours?"}
     QL -- no --> R9("<b>Queue</b><br/>holds the answer<br/>until the hours open") --> R7
     QL -- yes --> R7("<b>Queue</b><br/>priority send job on line X,<br/>campaign hours skipped:<br/>lead is active")
@@ -160,6 +161,6 @@ flowchart TD
     linkStyle 4,9,11,13,16,19,23,26,32,36,40,43,44,46,49,56 color:#b91c1c,stroke:#6b7280
 ```
 
-🟣 start (what triggers it) · ⚫ end, one per branch · ◇ a question, with yes and no arrows · ▢ an action, **bold** = who does it · 🟩 an iMessage leaves line X · 🟦 an SMS leaves the store's SMS number
+🟣 start (what triggers it) · ⚫ end, one per branch · ◇ a question, with yes and no arrows · ▢ an action, **bold** = who does it · 🟩 an iMessage leaves line X · 🟦 the step moves to the next channel
 
 If the diagram doesn't render: [diagram-c.png](diagram-c.png)

diff --git a/README.md b/README.md
@@ -3,8 +3,7 @@
 Tadas Vinckas · [Diagrams](diagrams.md)
 
 - **Step 0:** count how many shoppers we can reach, then test one line by hand. Only then we build.
-- **Phase 1**, a pilot with 2–3 US stores: shoppers who tap "Prefer iMessage?" write to us first.
-- **Phase 2:** we send cart messages first, tested against SMS. Then go or no-go.
+- **Pilot**, 2–3 US stores: we send cart messages by iMessage to half of the iPhone shoppers. The other half get the campaign without iMessage. Then go or no-go.
 
 ## 1. Provider: which one, and why
 
@@ -17,9 +16,9 @@ Tadas Vinckas · [Diagrams](diagrams.md)
 | Risk | What breaks | What we do |
 |---|---|---|
 | **Apple blocks a line** | Junk reports or bursts block the number. Its chats drop. | New chats ramp 10 → 25 → 50 a day. Consent only, no nights. |
-| **No link before a reply** | iPhones disable links from strangers. | One short question first. The link after a reply, or by SMS. |
-| **Lead not on iMessage** | About 4 in 10 US phones are Android. | We look up each number first. Not on iMessage → SMS, as today. |
-| **Few replies** | One-way lines look like bots. | Replies halve → no new chats. |
+| **No link before a reply** | iPhones disable links from strangers. | One short question first. The link after a reply, or on the next channel. |
+| **Lead not on iMessage** | About 4 in 10 US phones are Android. | We look up each number first. Not on iMessage → the next channel, usually SMS. |
+| **Few replies** | One-way lines look like bots. | The first message asks a question. Replies halve → no new chats. |
 | **One bad store** | It can get our account closed. | Admin check, a sub-account per store. |
 | **STOP and state law** | No carrier catches STOP. Some states limit hours. | We catch STOP ourselves and use the SMS law checks. |
 | **Cost** | $0.20 a lead, against $0.01 for SMS. | It pays off for us at about 15 more carts per 1,000 leads. |
@@ -28,7 +27,7 @@ Tadas Vinckas · [Diagrams](diagrams.md)
 |---|---|---|---|
 | **Sending hours** | Every step waits for sending hours. | Reply at once to a lead who just wrote, within the law. | Live chat: a next-morning answer loses the lead. |
 | **Reply limit** | After 5 replies, a person takes over. | Keep the chat going, up to 30 AI replies, then a person. | Going silent mid-chat loses the lead. |
-| **Sender number** | Each store texts from its SMS number. | One number per lead, changed only on fallback. | A second number looks like a scam. |
+| **Sender number** | Each store texts from its SMS number. | A lead on iMessage gets every text step, SMS ones too, from one line. Changed only on fallback. | SMS and iMessage share one app. A second number looks like a scam. |
 | **Follow-ups** | Steps run on schedule. | A reply or purchase cancels them. | No "still thinking?" after "yes, buying". |
 
 ## 3. Line health: how the team learns without a dashboard
@@ -36,7 +35,7 @@ Tadas Vinckas · [Diagrams](diagrams.md)
 - **Today:** there are no iMessage lines yet, so there is nothing to watch.
 - **Suggestion:** a job checks every line every 15 minutes and acts on its own:
   - **Yellow** (delivery under 90% or opt-outs over 2%): halve the daily limit, alert Slack.
-  - **Red** (blocked, or delivery under 70%): no new leads, chats go to SMS, alert Slack.
+  - **Red** (blocked, or delivery under 70%): no new leads, chats move to the next channel, alert Slack.
 - **Why:** the system acts first and Slack tells the team. People only replace lines.
 
 ## 4. Who turns it on: our admins, every store, or a plan
@@ -49,16 +48,18 @@ Tadas Vinckas · [Diagrams](diagrams.md)
 
 - **Today:** a lead is reached on every channel their campaign has switched on.
 - **Suggestion:** only leads with a US/CA number, consent and iMessage (we check first).
-- **Phase 2:** half of them get iMessage and half SMS, picked at random.
+- **One number per lead:** in the campaign, iMessage is a fifth channel. On the phone, it shares the Messages app with SMS, so a lead hears from one number at a time.
+- **Pilot:** half of them get iMessage, half the campaign without it, picked at random.
 - **The rest** (Android, no consent, no free line): the next channel, usually SMS. We log why.
 - **Why:** iMessage works only on iPhones and costs 20× more. The split compares like with like.
 
 ## 6. First version and time
 
 - **Step 0, before building:** count shoppers, then one line by hand for 2–3 weeks (~$300).
+- **Plan B:** if cold messages get that line flagged, leads write to us first, from a link in our SMS and email.
 - **Step 1, in build order:** replies (diagram C), then sending (diagram B), then the 2–3 store pilot.
 - **How long:** 4 weeks of building for one engineer, 12 weeks from step 0 to the decision.
 - **Blocks us:** the data agreement, legal on consent. **Could slip:** a ban, few replies.
-- **Where we simplified:** no self-serve, Slack not a dashboard, SMS fallback, US/CA, no media.
-- **Go:** replies at least 2× SMS, then 2 points more carts recovered.
+- **Where we simplified:** one pilot, no self-serve, Slack not a dashboard, existing channels as fallback, US/CA, no media.
+- **Go:** against leads without iMessage, 2× the replies, then 2 points more carts recovered.
 - **Questions:** Is iMessage live? Does SMS consent cover it? Do channels share one send path?
